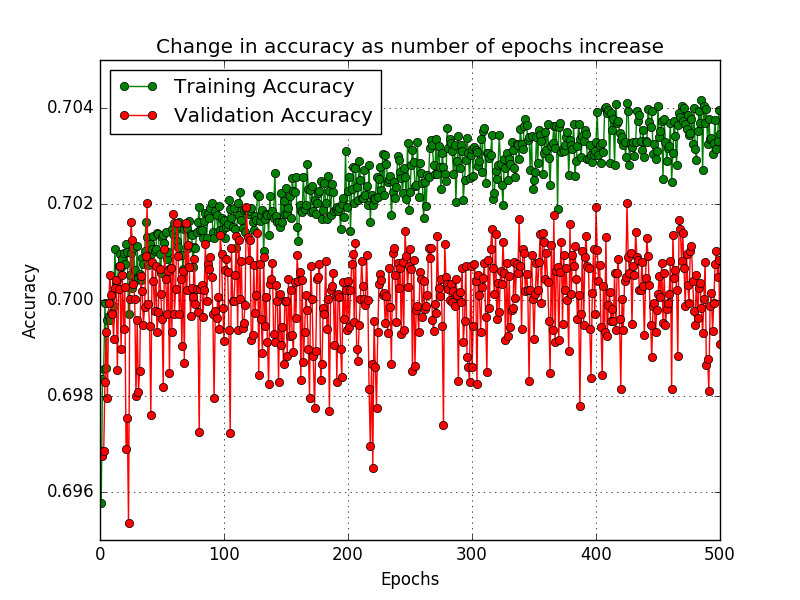
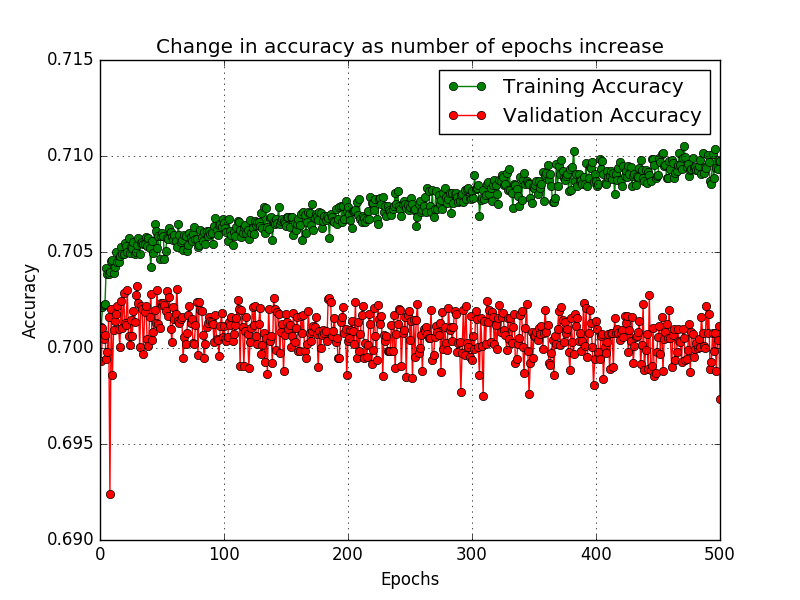
Changed architecture of neural networks

diff --git a/code/run_classifier.py b/code/run_classifier.py
@@ -96,7 +96,7 @@ def fitAdaBoost(X, y):
 
 def fitRandomForest(X, y):
 
-	param_grid = { "n_estimators" : [10, 20], "criterion" : ["gini", "entropy"], "max_features" : ["auto", "log2", None]}
+	param_grid = { "n_estimators" : [10, 50, 100], "criterion" : ["gini", "entropy"], "max_features" : ["auto", "log2", None]}
 	clf_rf = RandomForestClassifier(random_state = 4)
 	clf = GridSearchCV(clf_rf, param_grid, cv = 5, scoring = 'accuracy', n_jobs=-1)
 	clf.fit(X,y)
@@ -105,12 +105,7 @@ def fitRandomForest(X, y):
 	return best_clf
 
 def fitLR(X, y):
-
-	param_grid = {'C' : [0.001, 0.01, 0.1, 1, 10, 100, 1000]}
-	clf = GridSearchCV(LogisticRegression(), param_grid, cv = 5, scoring = 'accuracy', n_jobs=-1)
-	clf.fit(X,y)
-	best_clf = LogisticRegression(C = clf.best_params_['C'])
-	return best_clf 
+	return LogisticRegression()
 
 def fitRegression(X, y):
 	gb_learning_grid = [0.1, 0.05, 0.02, 0.01]
@@ -164,14 +159,26 @@ print np.unique(y, return_counts = True)
 print "Class distribution for ternary labels ..... "
 print np.unique(y_ternary, return_counts = True)
 
-scores = cross_val_score(fitGaussianNB(X, y), X, y, cv = 10)
-print "10 fold cv for binary classification using GaussianNB had accuracy %.3f and std. dev %.3f " % (np.mean(scores), np.std(scores))
+scores = cross_val_score(fitRandomForest(X, y), X, y, cv = 10)
+print "10 fold cv for binary classification using RF had accuracy %.3f and std. dev %.3f " % (np.mean(scores), np.std(scores))
+
+scores = cross_val_score(fitRandomForest(X, y_ternary), X, y_ternary, cv = 10)
+print "10 fold cv for ternary classification using RF had accuracy %.3f and std. dev %.3f " % (np.mean(scores), np.std(scores))
 
 scores = cross_val_score(fitxgBoostClassifier(X, y), X, y, cv = 10)
 print "10 fold cv for binary classification using XGBoost had accuracy %.3f and std. dev %.3f " % (np.mean(scores), np.std(scores))
 
-scores = cross_val_score(fitxgBoostClassifier(X, y), X, y_ternary, cv = 10)
+scores = cross_val_score(fitxgBoostClassifier(X, y_ternary), X, y_ternary, cv = 10)
 print "10 fold cv for ternary classification using XGBoost had accuracy %.3f and std. dev %.3f " % (np.mean(scores), np.std(scores))
+
+scores = cross_val_score(LogisticRegression(), X, y_ternary, cv = 10)
+print "10 fold cv for ternary classification using LogisticRegression had accuracy %.3f and std. dev %.3f " % (np.mean(scores), np.std(scores))
+
+scores = cross_val_score(LogisticRegression(), X, y, cv = 10)
+print "10 fold cv for binary classification using LogisticRegression had accuracy %.3f and std. dev %.3f " % (np.mean(scores), np.std(scores))
+
+scores = cross_val_score(fitGaussianNB(X, y), X, y, cv = 10)
+print "10 fold cv for binary classification using GaussianNB had accuracy %.3f and std. dev %.3f " % (np.mean(scores), np.std(scores))
 
 scores = cross_val_score(fitxgBoostRegressor(X, score), X, score, cv = 10)
 print "10 fold cv for regression using XGBoost had RMSE %.3f and std. dev %.3f " % (np.mean(scores), np.std(scores))

diff --git a/code/deep_learning.py b/code/deep_learning.py
@@ -8,6 +8,7 @@ from keras.layers import Activation
 from keras.callbacks import Callback
 from keras.wrappers.scikit_learn import KerasRegressor
 from sklearn.model_selection import StratifiedShuffleSplit, KFold, cross_val_score
+from sklearn.metrics import confusion_matrix, mean_squared_error, f1_score 
 
 class LossHistory(Callback):
 	def on_train_begin(self, logs={}):
@@ -95,16 +96,17 @@ num_epoch = 500
 batch_size = 1000
 
 model = Sequential()
-model.add(Dense(int(1.5 *columns), input_dim = columns, init = 'uniform', activation = 'relu')) #1st hidden layer
-model.add(Dense(columns , init = 'normal', activation = 'relu')) #2nd hidden layer
-model.add(Activation('softmax')) #output layer
+model.add(Dense(columns + 4, input_dim = columns, init = 'uniform', activation = 'relu')) #1st hidden layer
+model.add(Dense(columns + 2, init = 'normal', activation = 'relu')) #2nd hidden layer
+model.add(Dense(columns + 4, init = 'normal', activation = 'relu')) #3rd hidden layer
 model.compile(loss='sparse_categorical_crossentropy', optimizer='adam', metrics=['accuracy'])
 do_classification(X, y_ternary, model,  num_splits, num_epoch, batch_size, "../plots/NN_learning_ternary.png",
 	"Doing ternary classification ....")
 
 model = Sequential()
-model.add(Dense(int(1.5 *columns), input_dim = columns, init = 'uniform', activation = 'relu')) #1st hidden layer
-model.add(Dense(columns , init = 'normal', activation = 'relu')) #2nd hidden layer
+model.add(Dense(columns + 4, input_dim = columns, init = 'uniform', activation = 'relu')) #1st hidden layer
+model.add(Dense(columns + 2, init = 'normal', activation = 'relu')) #2nd hidden layer
+model.add(Dense(columns + 4, init = 'normal', activation = 'relu')) #3rd hidden layer
 model.add(Dense(1, activation = 'sigmoid')) #output layer
 model.compile(loss='binary_crossentropy', optimizer='adam', metrics=['accuracy'])
 do_classification(X, y, model, num_splits, num_epoch, batch_size, "../plots/NN_learning_binary.png", "Doing binary classification ....")
